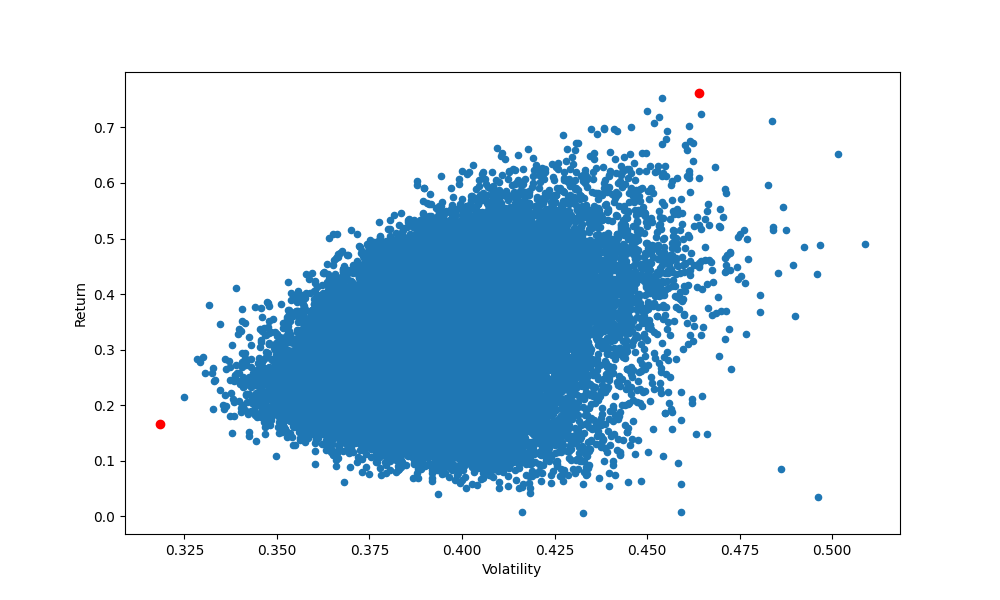
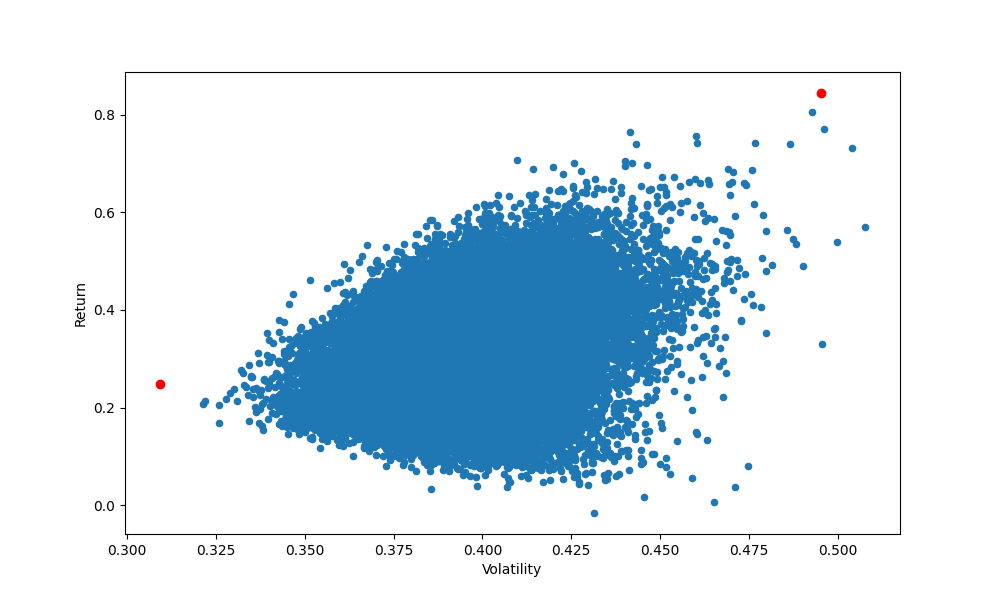
update

diff --git a/server/MC_Simulation.py b/server/MC_Simulation.py
@@ -1,18 +1,3 @@
-#Predict stock prices
-#price (today) = price (yesterday)*e^r
-#where r is the log return (share price of today / share price of yesterday)
-
-#Brownian motion
-
-#DRIFT = (average return - 1/2*variance)
-#The drift is the expected dailyreturn of the stock
-
-#VOLATILITY: random variable = st.dev*Z(Rand(0;1))
-
-#Repeat this calculation 1000 times
-#Price(today) = price(yesterday)*e^((mean-1/2*variance) + st.dev * Z[Rand(0;1)])
-
-
 #Import libraries
 import numpy as np
 import pandas as pd
@@ -22,19 +7,6 @@ from scipy.stats import norm
 from IPython import get_ipython
 from Stock_Functions import *
 
-
-
-
-
-#Import data
-#ticker = ['ACN', 'IBM', 'AIG', 'BLK','TSLA','TRI','VGT','EUE.MI','MA', 'BABA']
-#mydata = pd.DataFrame()
-#mydata[ticker] = wb.DataReader(ticker, data_source = "yahoo", start = "2020-11-19")["Adj Close"]
-
-#for t in ticker:
-#    mydata[t]= wb.DataReader(t,data_source='yahoo', start='2019-11-19')['Adj Close']
-
-
 def MC_Simulation(mydata):
 
     daily = (mydata/ mydata.shift(1)).mean(axis = 1) - 1
@@ -43,21 +15,22 @@ def MC_Simulation(mydata):
     lenght = daily.size
     new_list=[] 
     j=0
+    #cumulated return
     for i in range(1, lenght):
         j+=daily.iloc[i]
         new_list.append(j)
     dailyPortfolio = [10000 + (x * 10000) for x in new_list]
 
     #Compute the mean of log returns
-    u = log_returns.mean()
+    avgReturn = log_returns.mean()
     #Compute the var of log returns
     var = log_returns.var()
     #Compute the drift component
-    drift = u - (0.5 * var)
+    drift = avgReturn - (0.5 * var)
     #Compute st dev
     stdev = log_returns.std()
 
-    #Check if drift is a pandas series
+    #Check if drift is a pandas series and covert
     l = pd.Series(drift)
     drift = l
     drVal = drift.values
@@ -94,7 +67,6 @@ def MC_Simulation(mydata):
     #Compute price list over the number of t_intervals
     for t in range (1, t_intervals):
         price_list[t] = price_list[t-1]*daily_returns[t]
-    #print(price_list[-1][0])
 
     #Plot 
     plt.figure(figsize=(10, 6))

diff --git a/server/stock.py b/server/stock.py
@@ -36,9 +36,9 @@ class Stock:
         annualReturnW = weigthedReturn(annual_returns, self.weights)
         x, y = dailyReturn(self.mydata)
         volatility = pfRisk(annual_returns, self.tickers)
-        #portafoglio totale genera recap
+        #disegna grafico
         recap(x,y)
-        return   annualReturnW, volatility
+        return annualReturnW, volatility
         
 
     def recapStock(self):
@@ -66,17 +66,12 @@ class Stock:
         for x in range(30000):
             weights_m = np.random.random( num_assets )
             weights_m /= np.sum( weights_m )
-            #print('pesi2: ', weights_m)
             weig_list.append( weights_m )
-            #print('pesi3: ', weig_list)
             pf_returns.append(np.sum( np.dot(weights_m, appendPfRet) ) )
-            #print('pf_ret: ', pf_returns)
             pf_vol.append(np.sqrt(np.dot( weights_m.T, np.dot( covRetLog, weights_m ))))
-            #print('pf_vol: ', pf_vol)
 
 
         weig_list = [np.round(num, 4) for num in weig_list]
-        #print(weig_list)
         pf_returns = np.array(pf_returns)
         pf_vol = np.array(pf_vol)
 
@@ -86,19 +81,10 @@ class Stock:
 
         maxReturnPf = portfolios['Return'].argmax()
         minVolatilityPf = portfolios['Volatility'].argmin()
-        #avgReturnPf = portfolios['Return'].argmax()//3
         pfpuntoMaxRet = portfolios.iloc[maxReturnPf]
         pfpuntoMinVol  = portfolios.iloc[minVolatilityPf]
-        #pfpuntoAvgRet = portfolios.iloc[avgReturnPf]
         #plot efficient frontier 
         stockMarkovitz(portfolios, pfpuntoMaxRet, pfpuntoMinVol)
 
         return  pfpuntoMaxRet, pfpuntoMinVol, self.tickers
     
-    """
-    def bestMarkPf(self, portfolios):
-        maxRet = portfolios['Return'].argmax()
-        minVol = portfolios['Volatility'].argmin()
-        avgRet = (portfolios['Return'].argmax()//3)
-        return maxRet, minVol, avgRet
-    """

diff --git a/server/capm.py b/server/capm.py
@@ -8,11 +8,12 @@ import seaborn as sns
 from yahoofinancials import YahooFinancials
 
 
-def CAPM(mydata):
+def CAPM(mydata, stock):
     const_weights = [0.1,0.1,0.1,0.1,0.1,0.1,0.1,0.1,0.1,0.1]
     #Calculate stocks daily return
     # DA TENERE
-    #Calculate portfolio daily return    
+    #Calculate portfolio daily return 
+    # ritorna il valore percentuale tra n e n-1 
     ret_data = mydata.pct_change()[1:]
     pf_ret = (ret_data * const_weights).sum(axis = 1)
 
@@ -26,6 +27,7 @@ def CAPM(mydata):
     plt.ylabel("Portfolio Return")
     plt.savefig('../img/capm.png')
     plt.close('all')
+    #slope and inctercept of the fittest line
     beta, alpha = stats.linregress(SP500_ret.values, pf_ret.values)[0:2]
 
     # Import ten yield bonds
@@ -35,12 +37,8 @@ def CAPM(mydata):
     #Portfolio expected return
     mkt_risk_prem = 0.05
     Pf_exp_ret = yr_10 + beta * mkt_risk_prem
-
-    Sharpe = (0.4168 - yr_10) / (0.6841)
-    #print('Beta: ', beta)
-    #print('Alpha: ', alpha)
-    #print('Sharpe: ', Sharpe)
-    #print('Pf ecp: ', Pf_exp_ret)
-    #portfolio expected return, sharpe = indice del portafoglio
+    annualReturnW, volatility = stock.recapPortfolio()
+    annualReturnW /= 100
+    Sharpe = (annualReturnW - yr_10) / (volatility)
 
     return alpha, beta, Sharpe

diff --git a/server/keyboard.py b/server/keyboard.py
@@ -77,9 +77,9 @@ class Keyboard:
         
     def sendCAPM(self, bot, chat_id):
         mydata = stock.getMydata()
-        alpha, beta, sharpe = CAPM(mydata)
+        alpha, beta, sharpe = CAPM(mydata, stock)
         self.sendImage(bot, chat_id, 'capm.png')
-        message = ('Your portfolio excess return vaires by (beta) ' + str( round(beta, 2) )  + ' as the Market Excess Return Increases by one unit \nYour portfolio is overperfoming/underperforming the benchmark by (alpha)' + str( round(alpha, 2) ) + '\nYor porfolio has performed with this Sharpe ratio: ' + str(round(sharpe, 2)) )
+        message = ('Your portfolio excess return vaires by (beta) ' + str( round(beta, 2) )  + ' as the Market Excess Return Increases by one unit \nYour portfolio is overperfoming/underperforming the benchmark by (alpha)' + str( round(alpha, 2) ) + '\nYour porfolio has performed with this Sharpe ratio: ' + str(round(sharpe, 2)) )
         self.send_message(bot, chat_id, message)
 
     def sendImage(self, bot, chat_id, img):

diff --git a/server/Stock_Functions.py b/server/Stock_Functions.py
@@ -65,11 +65,6 @@ def stockMarkovitz(portfolios, pfpuntoMaxRet, pfpuntoMinVol):
     plt.savefig('../img/frontier.png')
     plt.close('all')
 
-
-def returnsLog(mydata):
-    return np.log(mydata / mydata.shift(1))
-
-
 #calculate a portfolio annual return
 def dailyReturn(mydata):
     daily = (mydata/ mydata.shift(1)).mean(axis = 1) - 1
@@ -78,8 +73,10 @@ def dailyReturn(mydata):
     day_list=[]
     i=0
     j=0
+    # Cumulated return
     for i in range(1, lenght):
         j+=daily.iloc[i]
+        #aggiungi elemento j in coda alla lista
         new_list.append(j)
         i+=1
         day_list.append(i)
